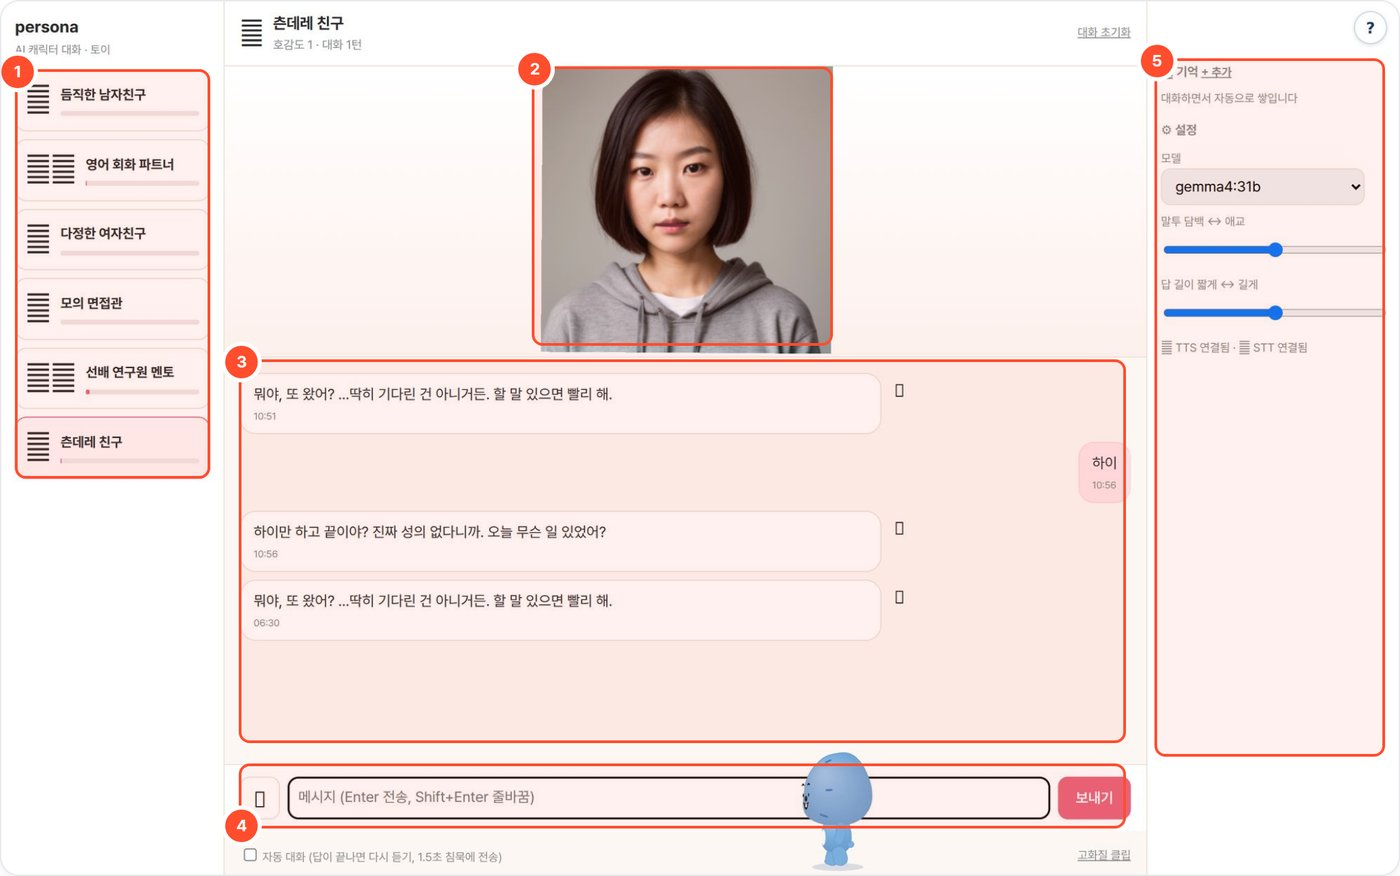
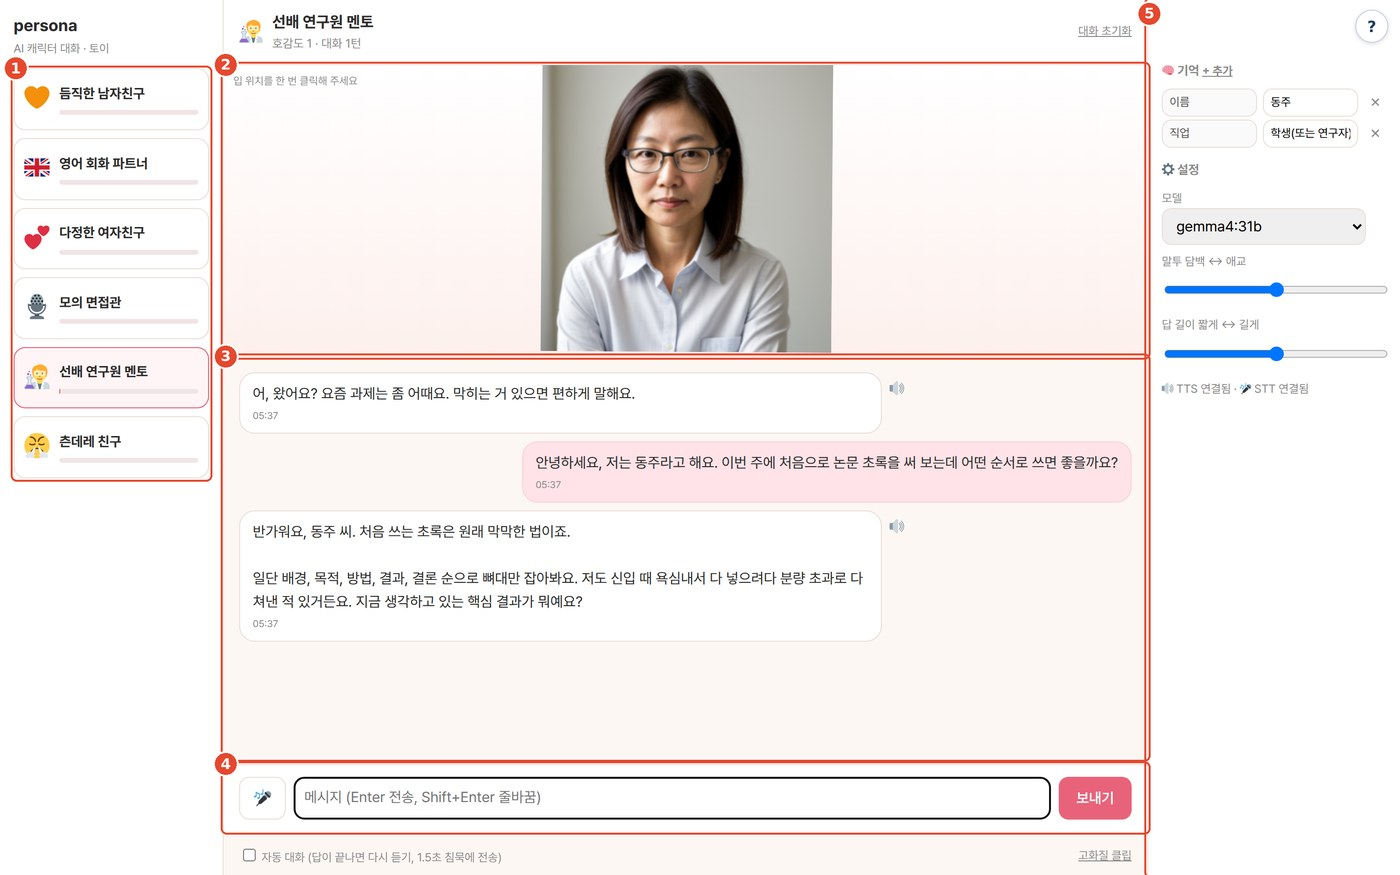
README: 사용 화면·예시를 새 실행 결과로 다시 찍음

Changed region(s): [[0.0, 0.0, 1.0, 1.0], [0.9214, 0.1234, 0.9521, 0.1543], [0.6143, 0.5863, 0.645, 0.6171]]

diff --git a/README.md b/README.md
@@ -23,10 +23,11 @@
 5. **기억·설정**(⑤) — 추출된 사실이 틀리면 고치거나 지우고, 모델·말투·답 길이를 조절합니다.
 
 ## 예시
-기존 실행 결과(2026-10-06, `persona.db` messages 테이블의 tsundere 대화):
+위 그림의 실행 결과(2026-10-12, gemma4:31b):
 
-- 캐릭터: **츤데레 친구** · 텍스트 입력: `하이`
-- 응답: “하이만 하고 끝이야? 진짜 성의 없다니까. 오늘 무슨 일 있었어?”
+- 캐릭터: **선배 연구원 멘토** · 텍스트 입력: `안녕하세요, 저는 동주라고 해요. 이번 주에 처음으로 논문 초록을 써 보는데 어떤 순서로 쓰면 좋을까요?`
+- 응답: “반가워요, 동주 씨. 처음 쓰는 초록은 원래 막막한 법이죠. 일단 배경, 목적, 방법, 결과, 결론 순으로 뼈대만 잡아봐요. 저도 신입 때 욕심내서 다 넣으려다 분량 초과로 다 쳐낸 적 있거든요. 지금 생각하고 있는 핵심 결과가 뭐예요?”
+- 기억(⑤)에 자동으로 쌓인 사실: 이름 = 동주, 직업 = 학생(또는 연구자)
 
 ## 설치·실행
 ```bash
